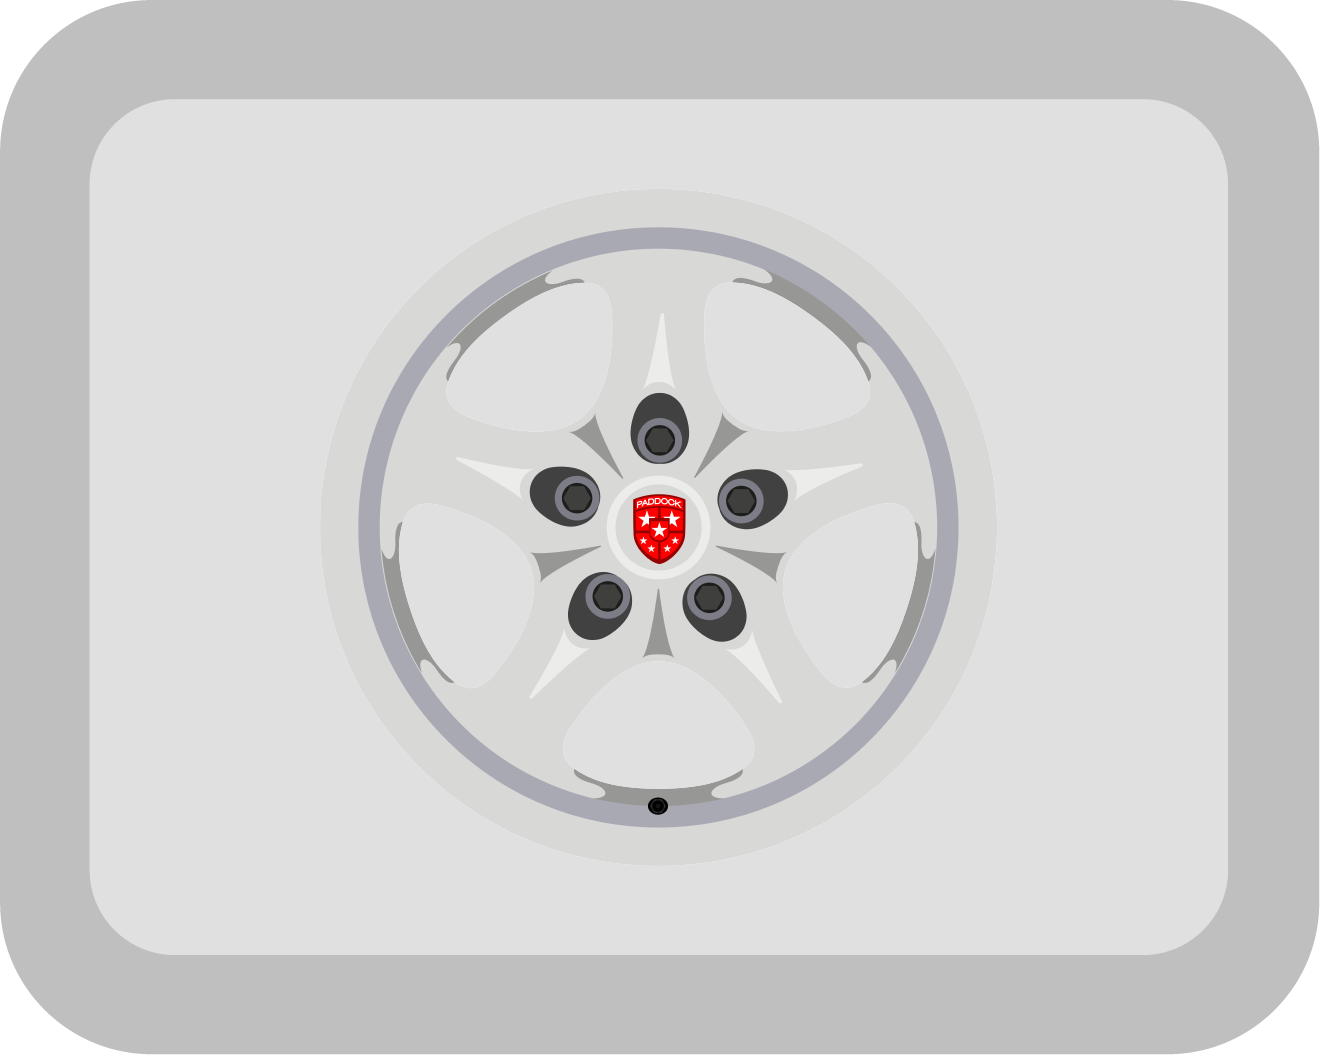
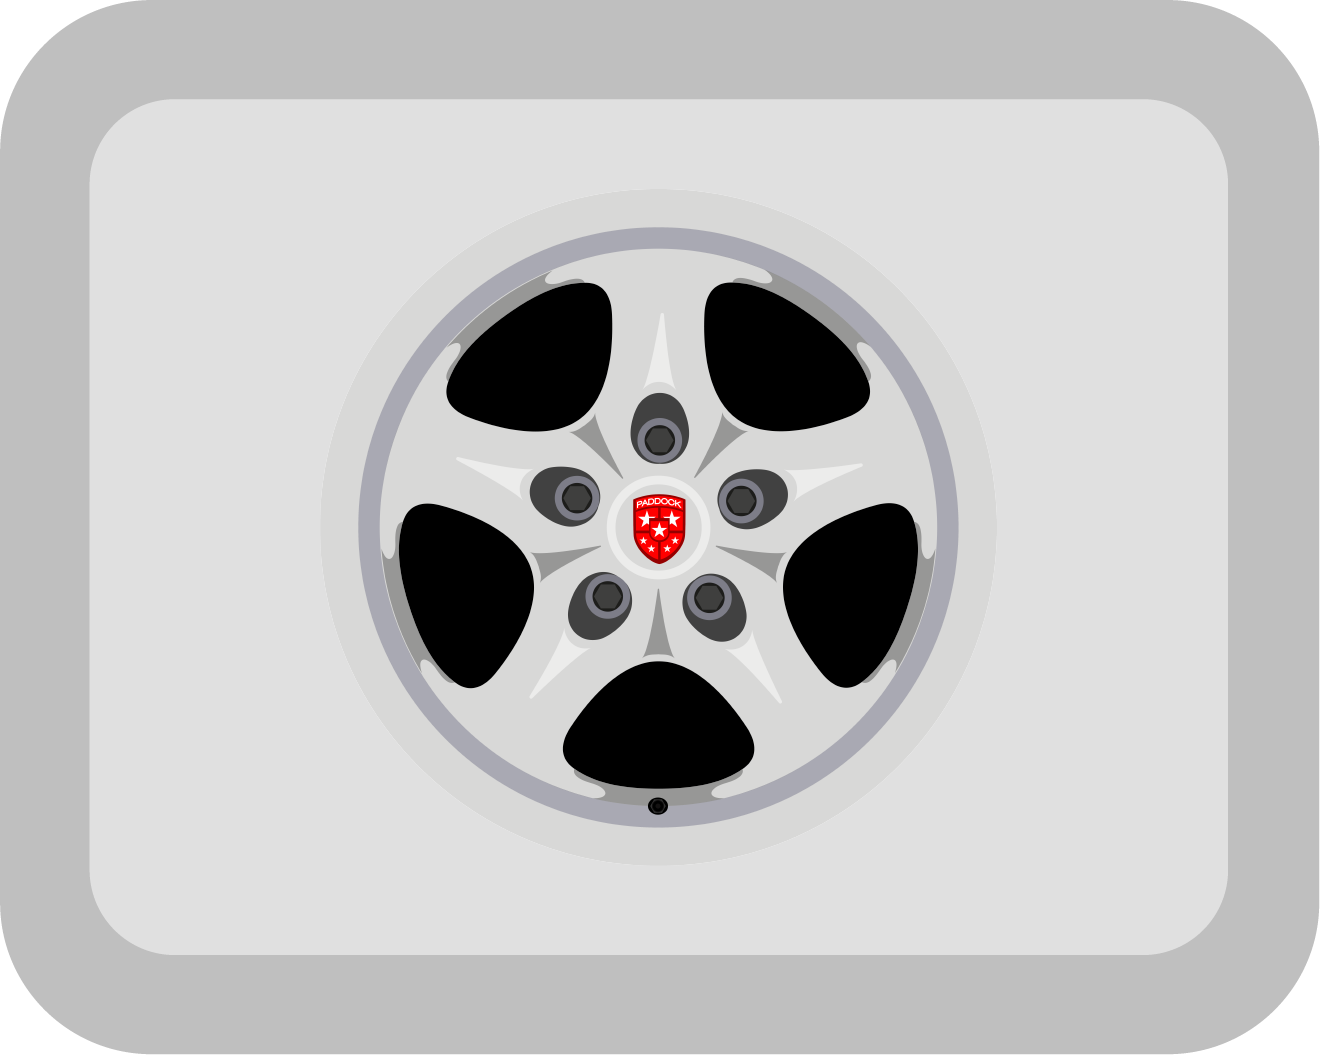
All rims added

diff --git a/paddock-car-builder/src/pages/Home.tsx b/paddock-car-builder/src/pages/Home.tsx
@@ -1,18 +1,32 @@
 import CustomHeader from '../components/HomeHeader'
 import HomeButton from '../components/HomeButtons'
-
+import { useState } from 'react'
+import ResetAlert from '../components/ResetAlert'
 
 function Home(){
 
+    const [showResetAlert, setShowResetAlert] = useState(false);
+
+    const nada = () =>{};
+
+    const handleResetButtonClick = () => {
+        setShowResetAlert(true);
+    
+        setTimeout(() => {
+          setShowResetAlert(false);
+        }, 1000);
+      };
 
 return <>
     <CustomHeader/>
     <div className='home-menu'>
         <div className='home-menu-row-1'>
-            <HomeButton type='1' source='dress-up' hiper='workshop'/>
-            <HomeButton type='1' source='garage' hiper='garage'/>
+            <HomeButton type='1' source='dress-up' hiper='workshop' onResetButtonClick={nada}/>
+            <HomeButton type='1' source='garage' hiper='garage' onResetButtonClick={nada}/>
         </div>
-        <HomeButton type='2' source='resetcar' hiper='home'/>
+        <HomeButton type='2' source='resetcar' hiper='home' onResetButtonClick={ handleResetButtonClick }/>
+        {showResetAlert && <ResetAlert onClose={() => setShowResetAlert(false)} />}
+
     </div>
 </>
 }

diff --git a/paddock-car-builder/src/styles/app.scss b/paddock-car-builder/src/styles/app.scss
@@ -276,6 +276,27 @@ body{
   }
 }
 
+.reset-alert{
+
+  display: grid;
+  justify-content: center;
+  align-content: center;
+
+  &-fill{
+    background-color: #ae0006;
+    border-radius: 16px;
+    width: 630px;
+    height: 60px;
+    display: grid;
+    justify-content: center;
+    align-content: center;
+
+    a{
+      color: #ffffff;
+    }
+  }
+}
+
 @media only screen and (max-width: 1250px) {
 
   @mixin workshop-sides{
@@ -567,6 +588,13 @@ body{
       width: 500px;
     }
   }
+
+  .reset-alert{
+    &-fill{
+      width: 470px;
+      height: 60px;
+    }
+  }
 }
 
 @media only screen and (max-width: 550px) {
@@ -702,6 +730,13 @@ body{
   
     &-row-1{
       gap: 15px;
+    }
+  }
+
+  .reset-alert{
+    &-fill{
+      width: 330px;
+      height: 60px;
     }
   }
 }
@@ -896,6 +931,13 @@ body{
   
     &-row-1{
       gap: 12px;
+    }
+  }
+
+  .reset-alert{
+    &-fill{
+      width: 270px;
+      height: 60px;
     }
   }
 

diff --git a/paddock-car-builder/src/components/HomeButtons.tsx b/paddock-car-builder/src/components/HomeButtons.tsx
@@ -6,6 +6,7 @@ interface Props{
     type: string;
     source: string;
     hiper: string ;
+    onResetButtonClick : () => void;
 }
 
 interface CarData {
@@ -20,7 +21,7 @@ interface CarData {
     mirrors: number;
   }
 
-function HomeButtons({type, source, hiper}: Props){
+function HomeButtons({type, source, hiper, onResetButtonClick}: Props){
 
     const [newCarData, setNewCarData] = useState<CarData>(() => getCarData() || {
         chassis: '993',
@@ -51,6 +52,7 @@ function HomeButtons({type, source, hiper}: Props){
 
     const handleClick = () => {
         if(source === 'resetcar'){
+            onResetButtonClick();
             updateCarParts();
             setNewCarData((prevData) => {
                 setCarData(prevData);

diff --git a/paddock-car-builder/src/components/ResetAlert.tsx b/paddock-car-builder/src/components/ResetAlert.tsx
@@ -1,0 +1,30 @@
+import { useEffect, useState } from "react";
+
+
+interface ResetAlertProps {
+    onClose: () => void;
+  }
+
+const ResetAlert = ({onClose} : ResetAlertProps) => {
+
+    const [visible, setVisible] = useState(true);
+
+    useEffect(() => {
+    const timer = setTimeout(() => {
+      setVisible(false);
+      onClose(); // Llama a la función onClose cuando la alerta desaparezca
+    }, 2000);
+
+    return () => clearTimeout(timer);
+  }, [onClose]);
+
+  return visible ? (
+    <div className="reset-alert">
+      <div className="reset-alert-fill">
+        <a>ALERT: CAR RESET TO STOCK</a>
+      </div>
+    </div>
+  ) : null;
+}
+
+export default ResetAlert

diff --git a/paddock-car-builder/src/pages/Workshop.tsx b/paddock-car-builder/src/pages/Workshop.tsx
@@ -64,7 +64,7 @@ const updateCarParts = (part: string, partNumber: string) => {
         newMirrors = parseInt(partNumber);
     }
 
-    console.log("Numero seleccionado: " + selectedNumber.number); 
+    // console.log("Numero seleccionado: " + selectedNumber.number); 
 
     setNewCarData((prevData) => ({
         ...prevData,
@@ -109,7 +109,7 @@ const generatePartOptions = (partName: string, partNumber: string, isActive: str
 
     if (activePart === partName){
         let buttons = [];
-        for (let i = 0; i <=5; i++) {
+        for (let i = 0; i <=6; i++) {
 
             const currentNumber = i.toString();
 

diff --git a/paddock-car-builder/src/components/Car.tsx b/paddock-car-builder/src/components/Car.tsx
@@ -90,7 +90,7 @@ class Car extends Component<CarProps, CarState> {
 
     render() {
 
-        console.log("Car props" , this.props);
+        // console.log("Car props" , this.props);
 
         return (
             <div className="car">
